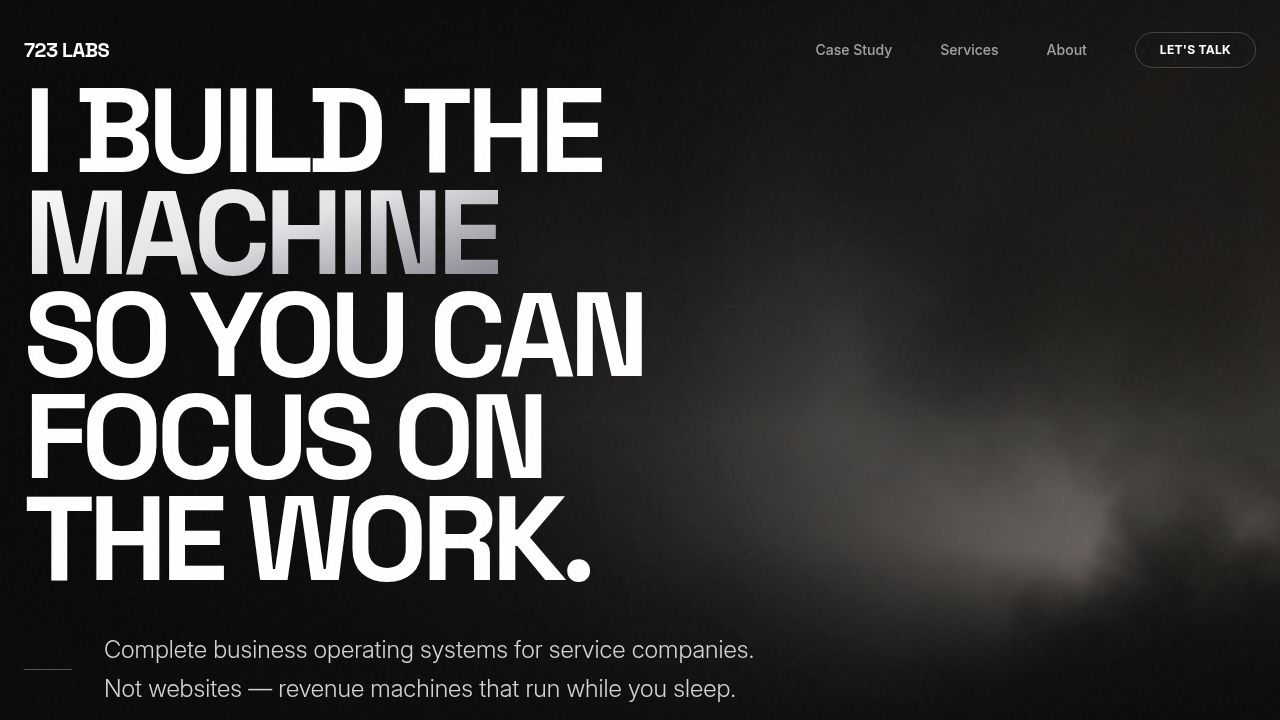
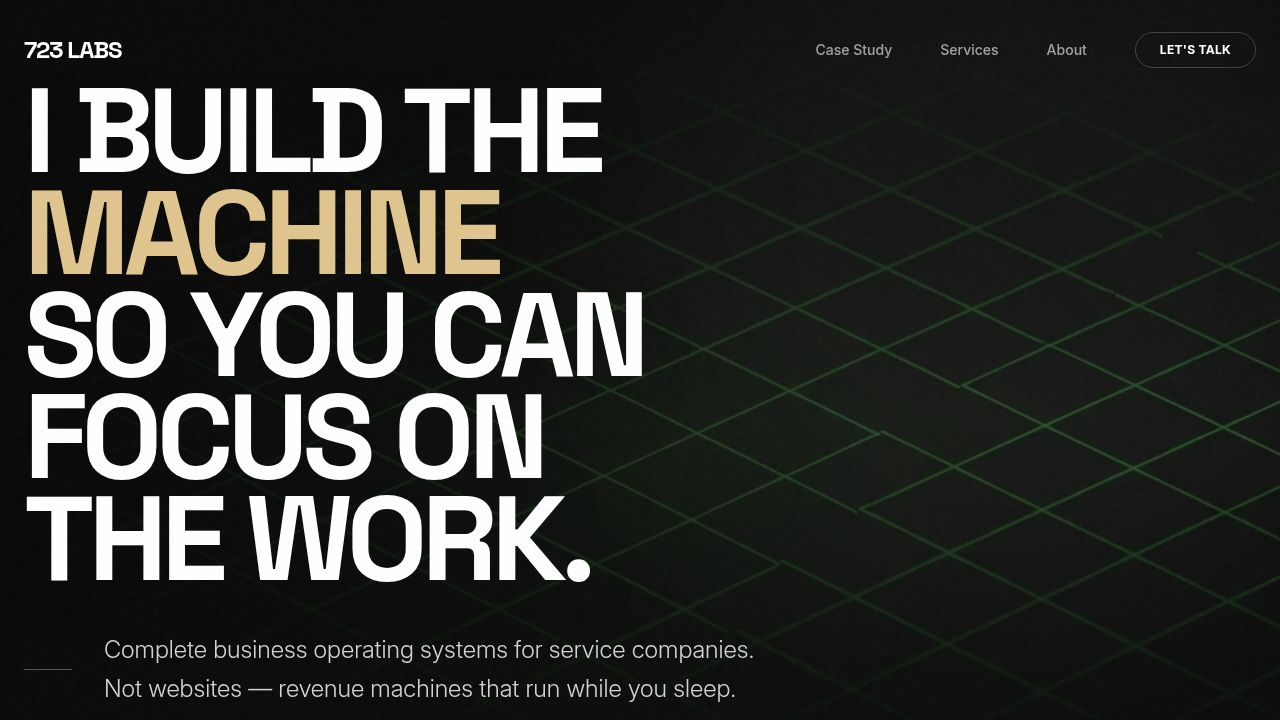
Update accent colors to a warm gold palette for a luxurious feel
Replaces emerald green accents with champagne/warm gold (#E0C58F) across various components including navigation, buttons, headlines, and service package highlights. Updates text selection color to match.

Replit-Commit-Author: Agent
Replit-Commit-Session-Id: 5f3cf8d0-8320-4cfb-808c-470ba87a599a
Replit-Commit-Checkpoint-Type: full_checkpoint
Replit-Commit-Event-Id: aa0ed8fe-a4cc-48e2-926f-35dd9fdacb40
Replit-Commit-Screenshot-Url: https://storage.googleapis.com/screenshot-production-us-central1/6be5fbb4-61c7-484b-a361-22bb37c848ef/5f3cf8d0-8320-4cfb-808c-470ba87a599a/FS4svrt
Replit-Helium-Checkpoint-Created: true

Changed region(s): [[0.5312, 0.4278, 1.0, 0.8861], [0.0, 0.2444, 0.4062, 0.3972], [0.0, 0.0611, 0.0938, 0.0917]]

diff --git a/client/src/pages/Home.tsx b/client/src/pages/Home.tsx
@@ -45,7 +45,7 @@ export default function Home() {
             >
               <h1 className="text-6xl md:text-8xl lg:text-[7.5rem] font-heading font-extrabold tracking-tighter leading-[0.85] mb-10 text-white drop-shadow-2xl">
                 I BUILD THE <br />
-                <span className="text-[#10B981]">
+                <span className="text-[#E0C58F]">
                   MACHINE
                 </span>
                 <br />
@@ -170,9 +170,9 @@ export default function Home() {
                 whileInView={{ opacity: 1, y: 0 }}
                 viewport={{ once: true }}
                 transition={{ delay: 0, duration: 0.1 }}
-                className="group relative border-l border-white/10 pl-8 py-8 hover:border-emerald-500/50 transition-colors duration-500"
+                className="group relative border-l border-white/10 pl-8 py-8 hover:border-[#E0C58F]/50 transition-colors duration-500"
               >
-                <div className="mb-8 w-12 h-12 rounded-full bg-white/5 flex items-center justify-center text-white group-hover:bg-emerald-500 group-hover:text-black transition-all duration-500">
+                <div className="mb-8 w-12 h-12 rounded-full bg-white/5 flex items-center justify-center text-white group-hover:bg-[#E0C58F] group-hover:text-black transition-all duration-500">
                   {col.icon}
                 </div>
                 <h3 className="text-3xl font-bold mb-4 font-heading text-white">{col.title}</h3>
@@ -189,7 +189,7 @@ export default function Home() {
           <div className="grid lg:grid-cols-2 gap-20 items-center">
             <div>
               <div className="inline-flex items-center gap-2 px-3 py-1 rounded-full bg-white/10 text-xs font-medium mb-8 text-white/80 backdrop-blur-sm border border-white/10">
-                <span className="w-1.5 h-1.5 rounded-full bg-emerald-500 animate-pulse" />
+                <span className="w-1.5 h-1.5 rounded-full bg-[#E0C58F] animate-pulse" />
                 CASE STUDY: CHEF G EVENTS
               </div>
               <h2 className="text-5xl md:text-7xl font-heading font-bold mb-10 leading-[0.9] tracking-tight text-white">
@@ -220,7 +220,7 @@ export default function Home() {
               </ul>
 
               <Link href="/case-study">
-                <Button variant="outline" size="lg" className="rounded-full border-white/20 hover:bg-[#10B981] hover:text-white hover:border-[#10B981] transition-all duration-300 h-14 px-8 text-base">
+                <Button variant="outline" size="lg" className="rounded-full border-white/20 hover:bg-[#E0C58F] hover:text-black hover:border-[#E0C58F] transition-all duration-300 h-14 px-8 text-base">
                   See the Full Case Study <ArrowRight className="ml-2 w-4 h-4" />
                 </Button>
               </Link>
@@ -263,7 +263,7 @@ export default function Home() {
             <div className="bg-zinc-950/50 p-8 font-bold text-white/40 text-center uppercase tracking-widest text-xs backdrop-blur-md">Traditional</div>
             <div className="bg-white/5 p-8 font-bold text-white text-center uppercase tracking-widest text-xs relative backdrop-blur-md">
               723 Labs
-              <div className="absolute top-0 left-0 w-full h-[2px] bg-emerald-500 shadow-[0_0_15px_rgba(16,185,129,0.5)]" />
+              <div className="absolute top-0 left-0 w-full h-[2px] bg-[#E0C58F] shadow-[0_0_15px_rgba(224,197,143,0.5)]" />
             </div>
 
             {/* Rows */}

diff --git a/client/src/components/layout/Navbar.tsx b/client/src/components/layout/Navbar.tsx
@@ -51,12 +51,12 @@ export function Navbar() {
                 <a 
                   className={cn(
                     "text-sm font-medium transition-all duration-300 relative group py-2",
-                    isActive(link.href) ? "text-white" : "text-white/60 hover:text-[#10B981]"
+                    isActive(link.href) ? "text-white" : "text-white/60 hover:text-[#E0C58F]"
                   )}
                 >
                   {link.label}
                   <span className={cn(
-                    "absolute bottom-0 left-0 h-[1px] bg-[#10B981] transition-all duration-300",
+                    "absolute bottom-0 left-0 h-[1px] bg-[#E0C58F] transition-all duration-300",
                     isActive(link.href) ? "w-full" : "w-0 group-hover:w-full"
                   )} />
                 </a>
@@ -65,7 +65,7 @@ export function Navbar() {
             <Link href="/contact">
               <Button 
                 variant="outline" 
-                className="rounded-full border-white/20 bg-transparent text-white hover:bg-[#10B981] hover:text-white hover:border-[#10B981] transition-all duration-500 px-6 tracking-wide text-xs uppercase font-bold"
+                className="rounded-full border-white/20 bg-transparent text-white hover:bg-[#E0C58F] hover:text-black hover:border-[#E0C58F] transition-all duration-500 px-6 tracking-wide text-xs uppercase font-bold"
               >
                 Let's Talk
               </Button>
@@ -105,7 +105,7 @@ export function Navbar() {
                       onClick={() => setIsOpen(false)}
                       className={cn(
                         "text-3xl font-heading font-bold tracking-tight transition-colors",
-                        isActive(link.href) ? "text-white" : "text-white/40 hover:text-[#10B981]"
+                        isActive(link.href) ? "text-white" : "text-white/40 hover:text-[#E0C58F]"
                       )}
                     >
                       {link.label}
@@ -121,7 +121,7 @@ export function Navbar() {
                 <Link href="/contact">
                   <Button 
                     onClick={() => setIsOpen(false)} 
-                    className="rounded-full px-8 py-6 text-lg bg-white text-black hover:bg-[#10B981] hover:text-white mt-8"
+                    className="rounded-full px-8 py-6 text-lg bg-white text-black hover:bg-[#E0C58F] hover:text-black mt-8"
                   >
                     Start Project
                   </Button>

diff --git a/client/src/pages/Services.tsx b/client/src/pages/Services.tsx
@@ -114,7 +114,7 @@ export default function Services() {
               }`}
             >
               {pkg.popular && (
-                <div className="absolute top-0 right-0 bg-emerald-500 text-black text-[10px] font-bold px-4 py-1.5 font-mono uppercase tracking-widest rounded-bl-xl rounded-tr-xl">
+                <div className="absolute top-0 right-0 bg-[#E0C58F] text-black text-[10px] font-bold px-4 py-1.5 font-mono uppercase tracking-widest rounded-bl-xl rounded-tr-xl">
                   Most Popular
                 </div>
               )}
@@ -126,7 +126,7 @@ export default function Services() {
               <ul className="space-y-4 mb-10 flex-1">
                 {pkg.features.map((feat, j) => (
                   <li key={j} className="flex gap-3 text-sm text-zinc-300 font-light group-hover:text-white transition-colors">
-                    <Check className="w-4 h-4 text-emerald-500 shrink-0 mt-0.5 group-hover:text-emerald-400 transition-colors" />
+                    <Check className="w-4 h-4 text-[#E0C58F] shrink-0 mt-0.5 group-hover:text-[#E0C58F] transition-colors" />
                     {feat}
                   </li>
                 ))}
@@ -137,8 +137,8 @@ export default function Services() {
                 <Link href="/contact">
                   <Button className={`w-full rounded-full h-12 text-sm font-bold tracking-wide transition-all duration-300 ${
                     pkg.popular 
-                      ? "bg-white text-black hover:bg-[#10B981] hover:text-white hover:scale-[1.02]" 
-                      : "bg-white/10 text-white border border-white/10 hover:bg-[#10B981] hover:text-white hover:border-[#10B981]"
+                      ? "bg-white text-black hover:bg-[#E0C58F] hover:text-black hover:scale-[1.02]" 
+                      : "bg-white/10 text-white border border-white/10 hover:bg-[#E0C58F] hover:text-black hover:border-[#E0C58F]"
                   }`}>
                     Select Package
                   </Button>

diff --git a/client/src/pages/CaseStudy.tsx b/client/src/pages/CaseStudy.tsx
@@ -24,7 +24,7 @@ export default function CaseStudy() {
             transition={{ duration: 0.8 }}
           >
             <div className="inline-flex items-center gap-2 px-3 py-1 rounded-full bg-white/10 text-xs font-medium mb-8 text-white/80 backdrop-blur-sm border border-white/10">
-              <span className="w-1.5 h-1.5 rounded-full bg-emerald-500 animate-pulse" />
+              <span className="w-1.5 h-1.5 rounded-full bg-[#E0C58F] animate-pulse" />
               CASE STUDY: CHEF G EVENTS
             </div>
             <h1 className="text-5xl md:text-7xl lg:text-8xl font-heading font-bold tracking-tighter mb-10 leading-[0.9]">
@@ -109,7 +109,7 @@ export default function CaseStudy() {
                   <ul className="space-y-3">
                     {group.items.map((item, j) => (
                       <li key={j} className="flex gap-3 items-start text-white/60 font-light">
-                        <Check className="w-5 h-5 text-emerald-500 mt-0.5" />
+                        <Check className="w-5 h-5 text-[#E0C58F] mt-0.5" />
                         {item}
                       </li>
                     ))}

diff --git a/client/src/index.css b/client/src/index.css
@@ -46,7 +46,7 @@
     @apply border-border;
   }
   body {
-    @apply font-sans antialiased bg-background text-foreground overflow-x-hidden leading-[1.6] selection:bg-emerald-500 selection:text-black;
+    @apply font-sans antialiased bg-background text-foreground overflow-x-hidden leading-[1.6] selection:bg-[#E0C58F] selection:text-black;
   }
   h1, h2, h3, h4, h5, h6 {
     @apply font-heading tracking-tight;
